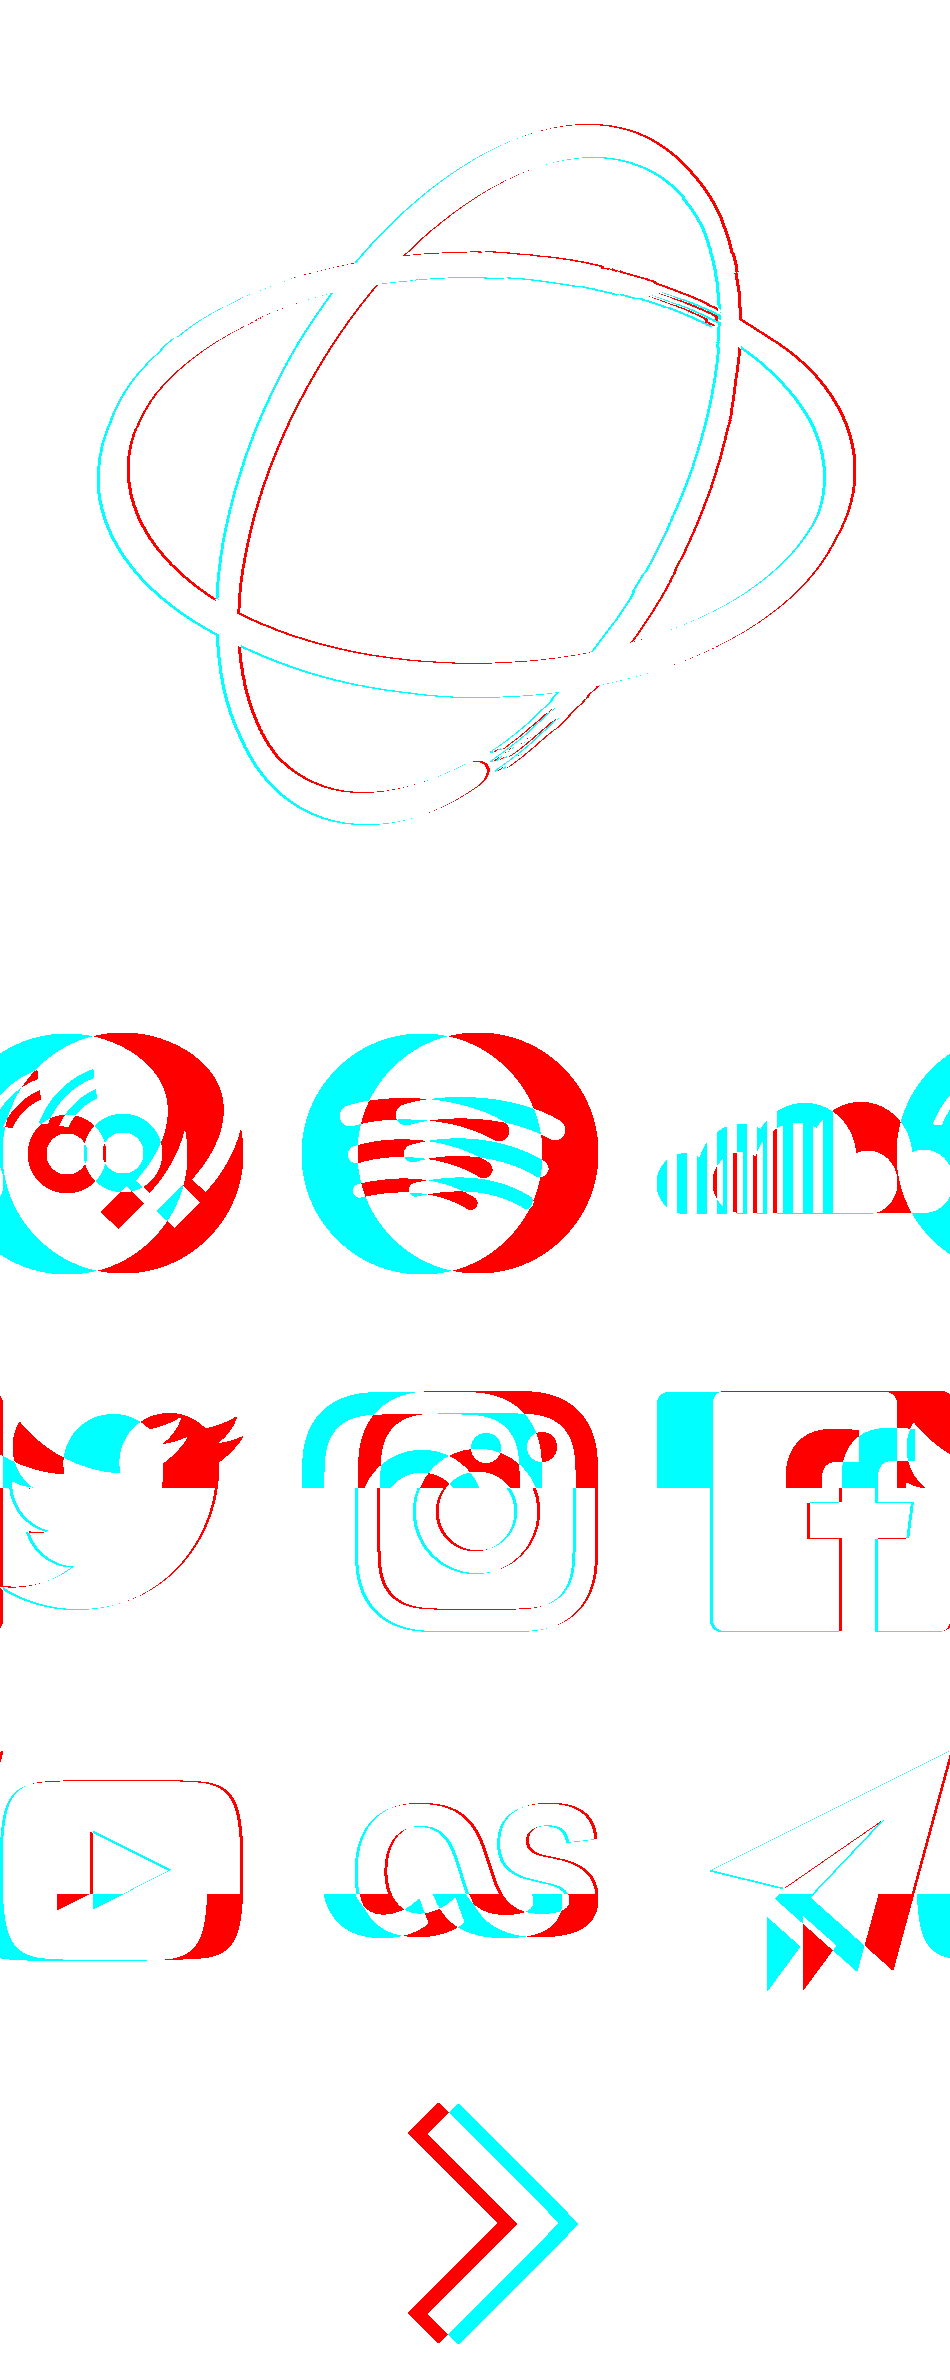
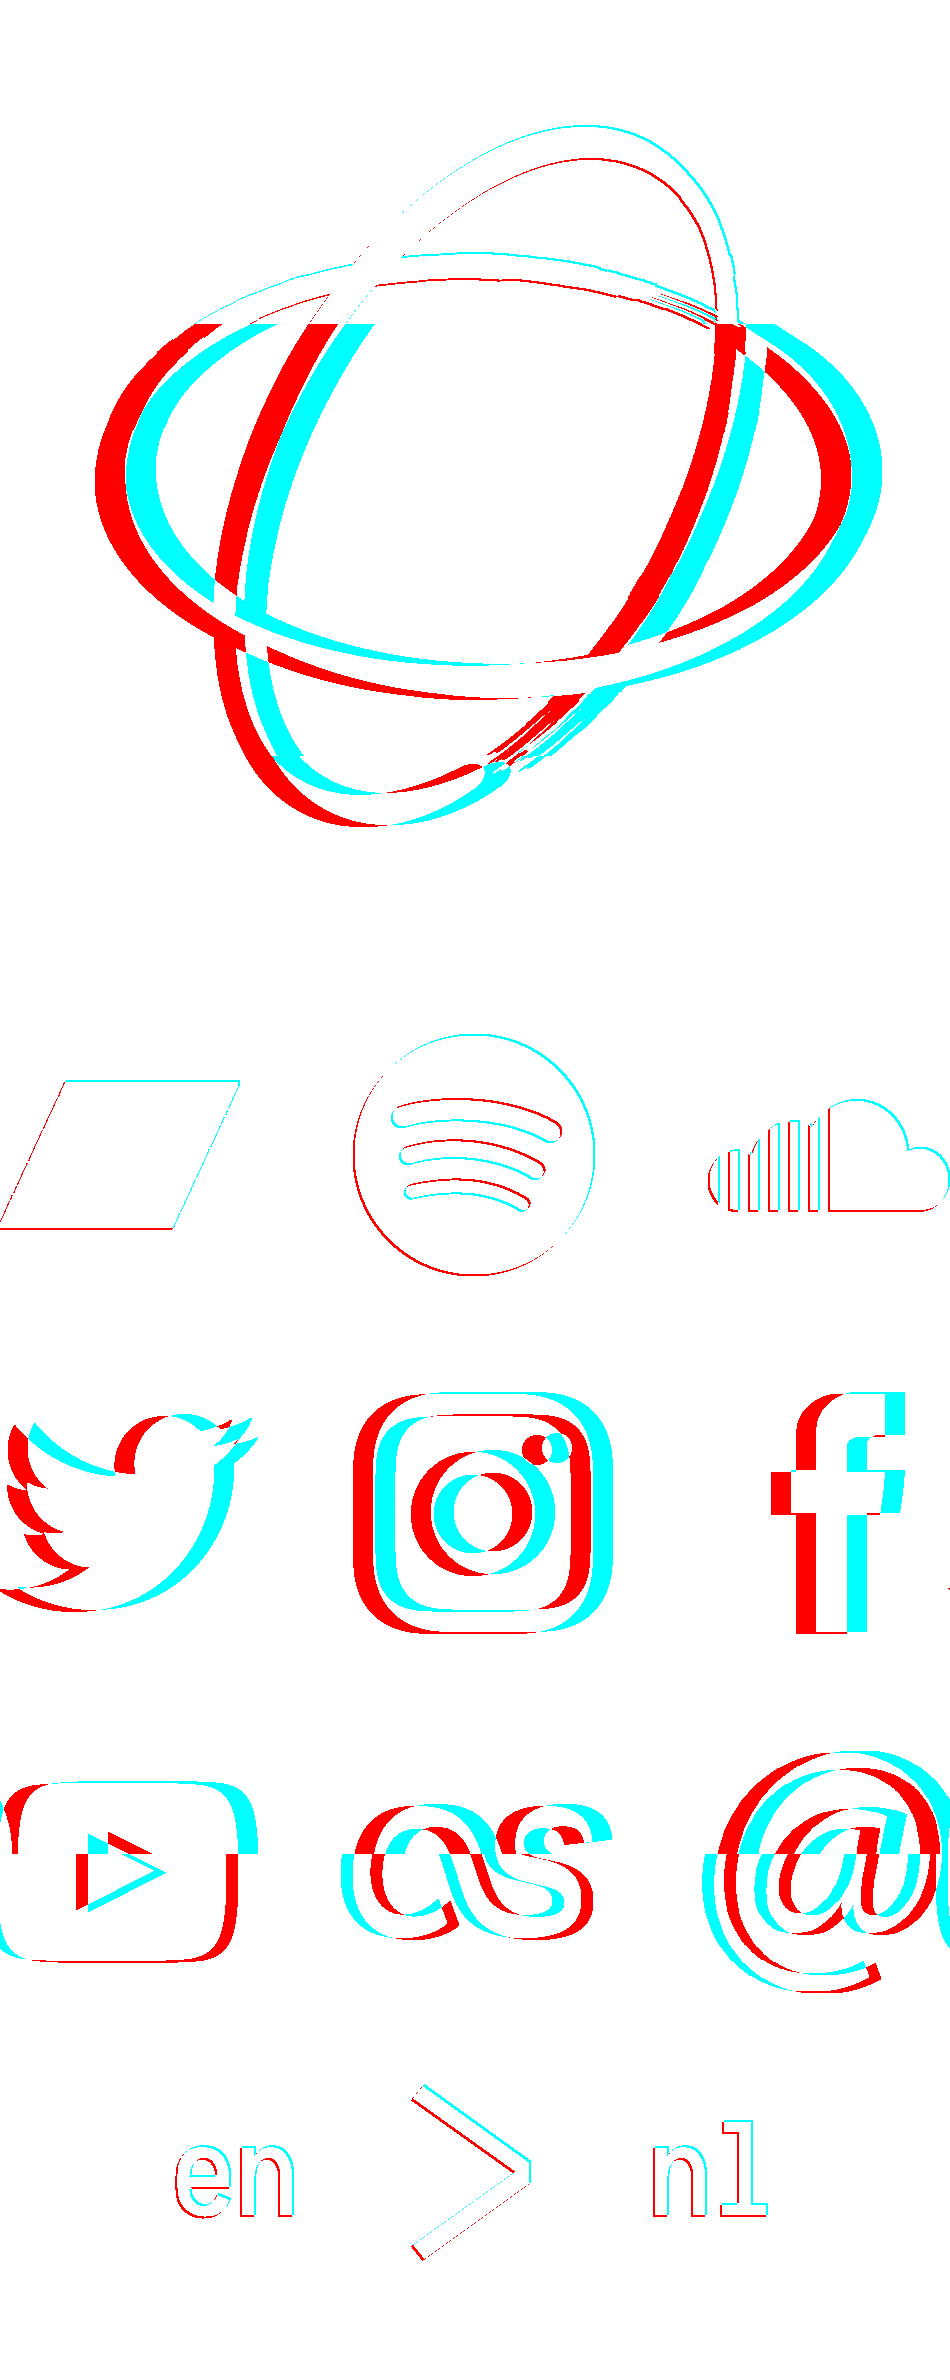
nederlands, waarom niet

diff --git a/hoi.html b/hoi.html
@@ -2,7 +2,7 @@
 <html lang="en-UK">
 
 <head>
-    <title>hi! • lyra messier</title>
+    <title>hoi! • lyra messier</title>
 
     <link rel="apple-touch-icon" sizes="180x180" href="/meta/apple-touch-icon.png">
     <link rel="icon" type="image/png" sizes="16x16" href="/meta/favicon-16x16.png">
@@ -13,7 +13,7 @@
     <meta name="apple-mobile-web-app-capable" content="yes">
     <meta name="apple-mobile-web-app-status-bar-style" content="black-translucent">
     <meta name="author" content="lyra messier">
-    <meta name="description" content="hi!">
+    <meta name="description" content="hoi!">
     <meta name="keywords" content="lyra, messier, msr, lyramsr, lyra lambert, lyra braekevelt, wolf lambert, lambert, wolf, WLM, music, musician, belgium, muziek, muzikant, album, song, artificial, light, destroyer, spacetravelisfinite, cut, the, lights, font, fonts, hyper, creatif, mindz">
     <meta name="mobile-web-app-capable" content="yes">
     <meta name="msapplication-config" content="/meta/browserconfig.xml">
@@ -29,7 +29,7 @@
     <meta name="twitter:site" content="@lyramsr">
     <meta name="twitter:title" content="lyra messier">
     <meta name="viewport" content="width=device-width, height=device-height, initial-scale=1.0">
-    <meta property="og:description" content="hi!">
+    <meta property="og:description" content="hoi!">
     <meta property="og:image" content="/meta/metaimg.jpg">
     <meta property="og:image:type" content="image/png">
     <meta property="og:image:height" content="1000">
@@ -198,21 +198,21 @@
 </head>
 
 <body>
-    <h1>hi!</h1>
-    <p>I’m lyra (<i>'lie-ruh</i>). this is my website. I coded it in <a draggable="true" href="http://brackets.io/" target="_blank">brackets.</a> the source is available <a draggable="true" href="https://github.com/lyramsr/space" target="_blank">on github.</a></p><br>
-    <h1>about</h1>
-    <p>I’m a musician, and I also do a bunch of unrelated things on the side. I live in belgium. here’s a picture of me:</p>
+    <h1>hoi!</h1>
+    <p>ik ben lyra (<i>'lai-ra</i>). dit is mijn website. ik schreef hem in <a draggable="true" href="http://brackets.io/" target="_blank">brackets.</a> de bron is beschikbaar <a draggable="true" href="https://github.com/lyramsr/space" target="_blank">op github.</a></p><br>
+    <h1>over</h1>
+    <p>ik ben muzikant en doe daarnaast nog een hoop ongerelateerde dingen. ik woon in belgië. hier is een foto van me:</p>
     <img id="picture" src="/img/picture.jpg">
-    <p>feel free to <a draggable="true" href="mailto:hi@lyramsr.co">send me an email</a> if you’d like. I speak english and dutch.</p><br>
-    <h1>music</h1>
+    <p><a draggable="true" href="mailto:hi@lyramsr.co">stuur me gerust een email</a> mocht je willen. ik spreek nederlands en engels.</p><br>
+    <h1>muziek</h1>
     <iframe id="spotifyframe" src="https://open.spotify.com/embed?uri=spotify:album:3OfeWySuw0LPStzYp9VvEg" frameborder="0" allowtransparency="true"></iframe><br>
-    <h1>things</h1>
+    <h1>dingen</h1>
     <ul>
-        <li>this page is set in <a draggable="true" href="https://be5invis.github.io/Iosevka/" target="_blank">iosevka</a> and <a draggable="true" href="https://adobe-fonts.github.io/source-sans-pro/" target="_blank">source sans pro.</a></li>
-        <li><a draggable="true" href="spotify:user:1177893690:playlist:0uj4GTVtUVQCNjJca65IGt">here</a>’s a spotify playlist featuring some of my favourite music. if you happen to be more of a stalkerish type and you prefer a detailed log of my listening habits, you can head over to my <a draggable="true" href="https://last.fm/user/wolflambert" target="_blank">last.fm.</a></li>
-        <li><a draggable="true" href="/colourmadness" target="_blank">colour madness</a> displays a new random colour every second. be sure to open it on any public computers you happen to come across.</li>
-        <li>drag <a id="bookmarklet" draggable="true" href="javascript:!function(e){var%20a=function(e){e(%22%3Cstyle%20id='barrelroll'%20type='text/css'%3E%40keyframes%20roll{from{transform:rotate(0)}to{transform:rotate(360deg)}}body{animation-name:roll;animation-duration:3s;animation-iteration-count:1}%3C/style%3E%22).appendTo(%22head%22),setTimeout(function(){e(%22%23barrelroll%22).remove()},3250)};if(e%26%26e.fn%26%26parseFloat(e.fn.jquery)%3E=1.7)a(e);else{var%20t=document.createElement(%22script%22);t.src=%22//ajax.googleapis.com/ajax/libs/jquery/1/jquery.js%22,t.onload=t.onreadystatechange=function(){var%20e=this.readyState;e%26%26%22loaded%22!==e%26%26%22complete%22!==e||a(jQuery.noConflict())}}document.getElementsByTagName(%22head%22)[0].appendChild(t)}(window.jQuery);">this link</a> to your bookmarks and click it anywhere to make the page you’re viewing do a barrel roll.</li>
-        <li>subtle hint: when you’re on the index page, try typing <i>nyan</i>, <i>clippy</i>, or <i>no</i>, entering the konami code, pressing <i>alt+J</i>, and hitting the spacebar a couple times :)</li>
+        <li>deze pagina wordt weergegeven in <a draggable="true" href="https://be5invis.github.io/Iosevka/" target="_blank">iosevka</a> en <a draggable="true" href="https://adobe-fonts.github.io/source-sans-pro/" target="_blank">source sans pro.</a></li>
+        <li><a draggable="true" href="spotify:user:1177893690:playlist:0uj4GTVtUVQCNjJca65IGt">hier</a> vind je een spotifyplaylist met wat van mijn favoriete muziek. mocht je meer het stalkerig type zijn en liever een gedetailleerd log van mijn luistergewoonten hebben kun je een kijkje nemen op mijn <a draggable="true" href="https://last.fm/user/wolflambert" target="_blank">last.fm.</a></li>
+        <li><a draggable="true" href="/colourmadness" target="_blank">colour madness</a> geeft elke seconde een nieuwe kleur weer. zet het zeker open op elke publieke computer die je tegenkomt.</li>
+        <li>sleep <a id="bookmarklet" draggable="true" href="javascript:!function(e){var%20a=function(e){e(%22%3Cstyle%20id='barrelroll'%20type='text/css'%3E%40keyframes%20roll{from{transform:rotate(0)}to{transform:rotate(360deg)}}body{animation-name:roll;animation-duration:3s;animation-iteration-count:1}%3C/style%3E%22).appendTo(%22head%22),setTimeout(function(){e(%22%23barrelroll%22).remove()},3250)};if(e%26%26e.fn%26%26parseFloat(e.fn.jquery)%3E=1.7)a(e);else{var%20t=document.createElement(%22script%22);t.src=%22//ajax.googleapis.com/ajax/libs/jquery/1/jquery.js%22,t.onload=t.onreadystatechange=function(){var%20e=this.readyState;e%26%26%22loaded%22!==e%26%26%22complete%22!==e||a(jQuery.noConflict())}}document.getElementsByTagName(%22head%22)[0].appendChild(t)}(window.jQuery);">deze</a> link naar je bladwijzers en klik er waar dan ook op om de pagina waar je naar kijkt een barrel roll te laten doen.</li>
+        <li>subtiele hint: probeer op de indexpagina eens <i>nyan</i>, <i>clippy</i> of <i>no</i> te typen, de konamicode in te voeren, <i>alt+J</i> in te drukken, en een paar keer op de spatiebalk te slaan :)</li>
     </ul><br>
     <h1><a draggable="true" id="back" href="/">&lt;</a></h1>
     <script src="https://ajax.googleapis.com/ajax/libs/jquery/3.2.1/jquery.min.js"></script>

diff --git a/index.html b/index.html
@@ -187,7 +187,8 @@
                 <area shape="rect" coords="0, 1750, 240, 1990" href="https://youtube.com/lyramessier" target="_blank" alt="YouTube" title="YouTube">
                 <area shape="rect" coords="355, 1750, 595, 1990" href="https://last.fm/user/wolflambert" target="_blank" alt="Last.fm" title="Last.fm">
                 <area shape="rect" coords="710, 1750, 950, 1990" href="mailto:hi@lyramsr.co" alt="Mail" title="Mail">
-                <area shape="rect" coords="355, 2104, 595, 2344" href="/hi" alt="About" title="About">
+                <area shape="rect" coords="122, 2042, 570, 2294" href="/hi" alt="English" title="English">
+                <area shape="rect" coords="600, 2042, 812, 2294" href="/hoi" alt="Nederlands" title="Nederlands">
             </map>
         </div>
         <div id="glitch1"></div>
